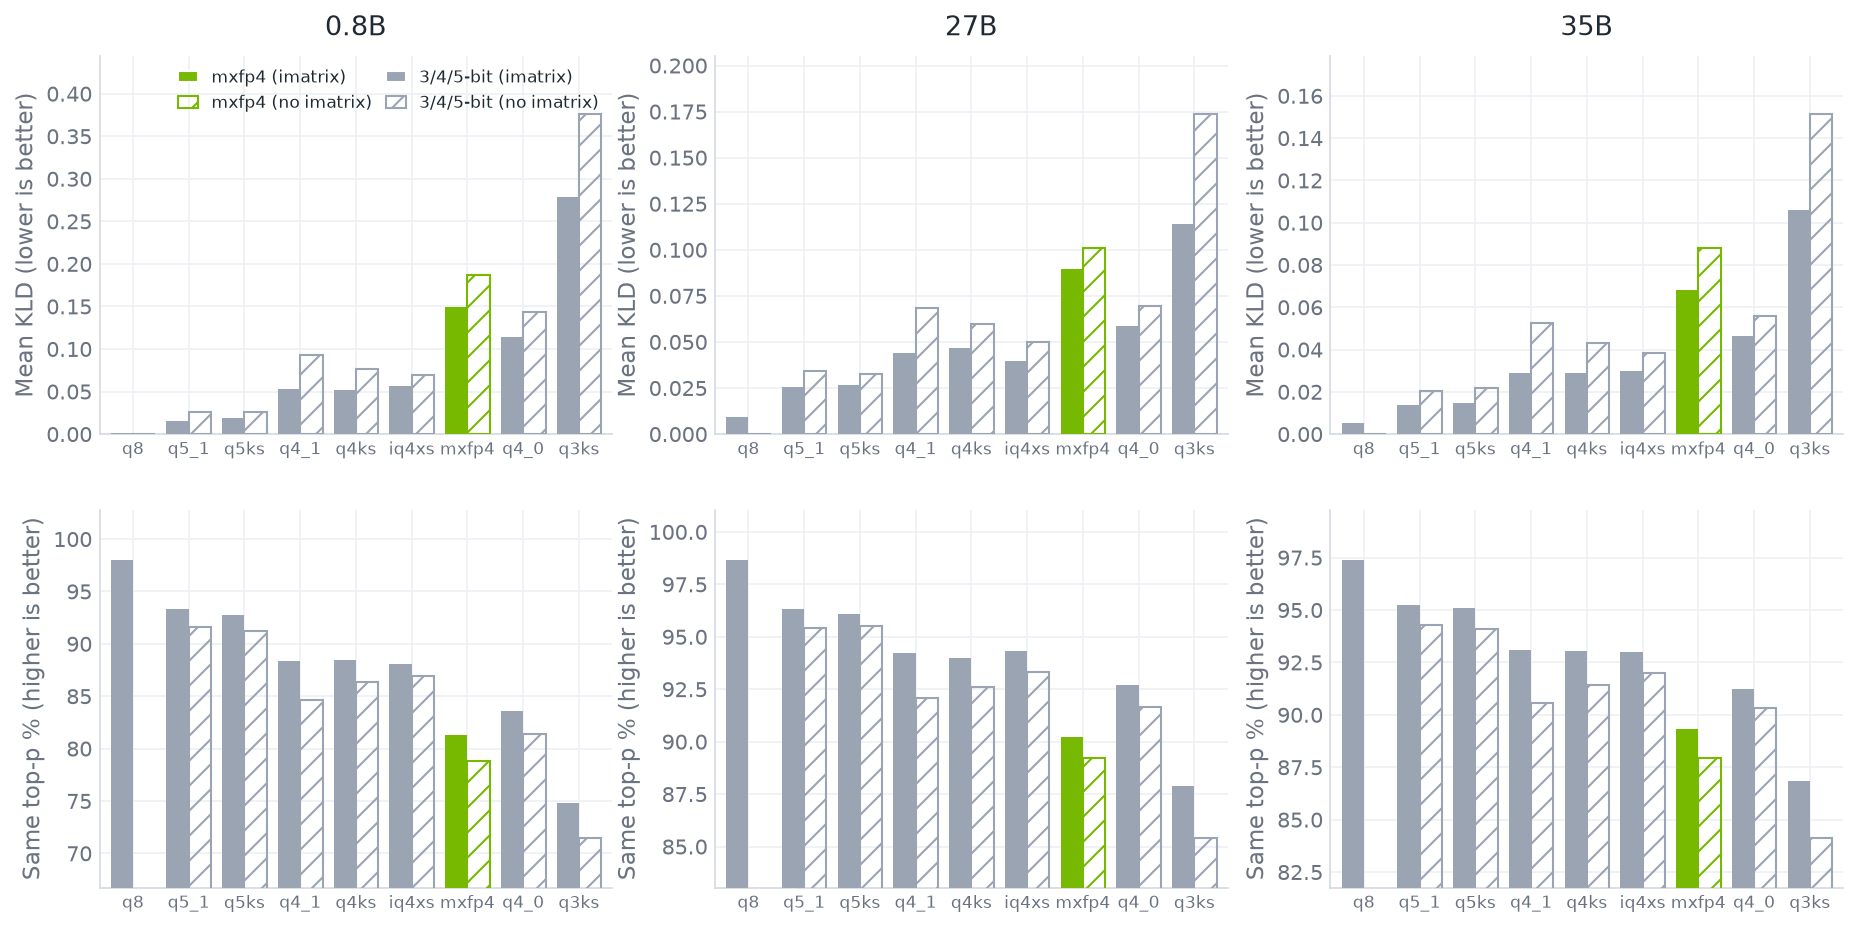
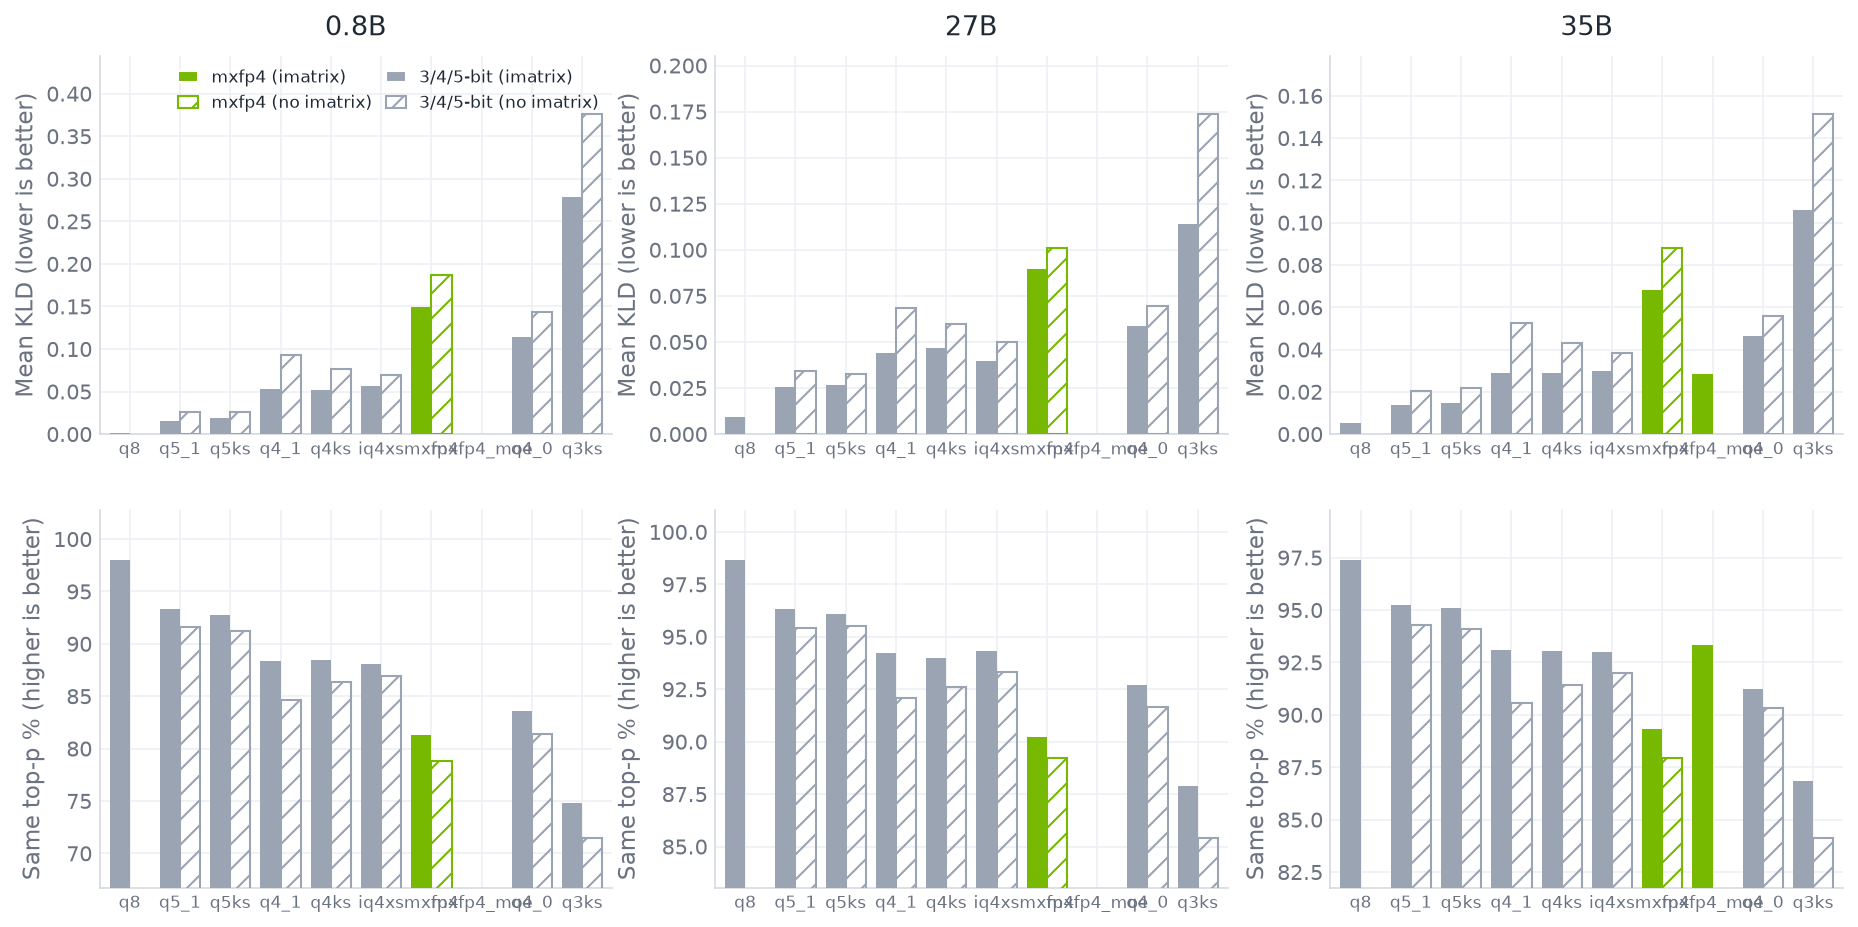
Charts + tables: regular-number log ticks, point labels right of dot, KL mxfp4_moe bar; PR body: 35B KL moe-recipe row, KV table filled (GPU + CPU)
Assisted-by: pi

diff --git a/charts.py b/charts.py
@@ -134,9 +134,9 @@ def scatter_quant_points(ax, rows):
         ax.scatter([size], [imx], s=s, c=col, marker=marker, zorder=5, edgecolors="white", linewidths=0.8)
         if noimx is not None:
             ax.scatter([size], [noimx], s=s, facecolors="none", edgecolors=col, linewidths=1.6, marker=marker, zorder=4)
-        ax.annotate(disp, (size, imx), textcoords="offset points", xytext=(7, 8),
+        ax.annotate(disp, (size, imx), textcoords="offset points", xytext=(7, 0),
                     fontsize=7, color=(PALETTE["mx"] if is_mx else PALETTE["muted"]),
-                    ha="left", va="bottom", zorder=6)
+                    ha="left", va="center", zorder=6)
     items = [Line2D([0], [0], marker="o", ls="", ms=9, mec="white", mfc=PALETTE["mx"], label="mxfp4")]
     if any(r[0] == "mxfp4-moe" for r in rows):
         items.append(Line2D([0], [0], marker="D", ls="", ms=9, mec="white", mfc=PALETTE["mx"], label="mxfp4_moe"))
@@ -152,8 +152,10 @@ def ppl_vs_size():
         style_axes(ax, title=model, xlabel="file size (GB)", ylabel="PPL", xlog=True)
         scatter_quant_points(ax, rows)
         ax.set_xlim(min(r[1] for r in rows) * 0.98, max(r[1] for r in rows) * 1.06)
-        from matplotlib.ticker import ScalarFormatter
-        ax.xaxis.set_major_formatter(ScalarFormatter())
+        from matplotlib.ticker import FuncFormatter, MaxNLocator
+        # log scale, but the range spans < 1 decade: place regular-number ticks with a linear-style locator
+        ax.xaxis.set_major_locator(MaxNLocator(nbins=4, steps=[1, 2, 2.5, 5, 10]))
+        ax.xaxis.set_major_formatter(FuncFormatter(lambda v, _: f"{v:.1f}" if v < 10 else f"{v:.0f}"))
         ymin, ymax = min(r[2] for r in rows), max(r[2] for r in rows)
         pad = (ymax - ymin) * 0.15
         ax.set_ylim(ymin - pad, ymax + pad)
@@ -189,13 +191,15 @@ def kv_cache():
         axt.bar_label(bt, fmt="%.1f", fontsize=7, color=PALETTE["text"], padding=2)
         axt.set_yscale("log")
         axt.set_ylim(min(d["tg"].values()) * 0.9, max(d["tg"].values()) * 1.08)
-        from matplotlib.ticker import ScalarFormatter
-        axt.yaxis.set_major_formatter(ScalarFormatter())
+        from matplotlib.ticker import FuncFormatter, MaxNLocator
+        # log scale, but the range spans < 1 decade: place regular-number ticks with a linear-style locator
+        axt.yaxis.set_major_locator(MaxNLocator(nbins=4, steps=[1, 2, 2.5, 5, 10]))
+        axt.yaxis.set_major_formatter(FuncFormatter(lambda v, _: f"{v:.0f}"))
     save(fig, "kv-cache.png")
 
 # ------------------------------------------------------------------ KL + top-p
 # per quant: (imx_kld, imx_topp, plain_kld, plain_topp); q8 has no plain
-KL_ORDER = ["q8", "q5_1", "q5ks", "q4_1", "q4ks", "iq4xs", "mxfp4", "q4_0", "q3ks"]
+KL_ORDER = ["q8", "q5_1", "q5ks", "q4_1", "q4ks", "iq4xs", "mxfp4", "mxfp4_moe", "q4_0", "q3ks"]
 KL = {
     "0.8B": {
         "q8":    (0.001274, 98.029, None, None),
@@ -205,6 +209,7 @@ KL = {
         "q4ks":  (0.052137, 88.432, 0.076593, 86.340),
         "iq4xs": (0.056000, 88.111, 0.069437, 86.883),
         "mxfp4": (0.149358, 81.307, 0.187225, 78.825),
+        "mxfp4_moe": (None, None, None, None),
         "q4_0":  (0.113817, 83.581, 0.143692, 81.412),
         "q3ks":  (0.278512, 74.846, 0.376418, 71.496),
     },
@@ -216,6 +221,7 @@ KL = {
         "q4ks":  (0.046680, 93.995, 0.059856, 92.591),
         "iq4xs": (0.039574, 94.317, 0.049913, 93.341),
         "mxfp4": (0.089838, 90.217, 0.101166, 89.239),
+        "mxfp4_moe": (None, None, None, None),
         "q4_0":  (0.058929, 92.702, 0.069682, 91.645),
         "q3ks":  (0.114200, 87.891, 0.173826, 85.424),
     },
@@ -227,30 +233,30 @@ KL = {
         "q4ks":  (0.029115, 93.066, 0.043272, 91.421),
         "iq4xs": (0.029952, 92.986, 0.038388, 91.981),
         "mxfp4": (0.068176, 89.343, 0.087843, 87.920),
+        "mxfp4_moe": (0.028607, 93.355, None, None),
         "q4_0":  (0.046439, 91.255, 0.055915, 90.307),
         "q3ks":  (0.106026, 86.843, 0.151525, 84.141),
     },
 }
 
 def _kl_color(q):
-    return PALETTE["mx"] if q == "mxfp4" else PALETTE["other"]
+    return PALETTE["mx"] if q in ("mxfp4", "mxfp4_moe") else PALETTE["other"]
 
 
 def _plot_kl_panel(ax, d, key, ymin0=False):
     xs = np.arange(len(KL_ORDER))
     w = 0.4
-    imx_x, noimx_x = xs - w/2, xs + w/2
-    imx_vals, noimx_vals, cols = [], [], []
-    for q in KL_ORDER:
+    imx_x, imx_vals, cols = [], [], []
+    noimx_x, noimx_vals, nocols = [], [], []
+    for i, q in enumerate(KL_ORDER):
         ik, it, pk, pt = d[q]
-        imx_vals.append(ik if key == "kld" else it)
-        noimx_vals.append((pk if key == "kld" else pt) if pk is not None else None)
-        cols.append(_kl_color(q))
+        if ik is not None or it is not None:
+            imx_x.append(i - w/2); imx_vals.append(ik if key == "kld" else it); cols.append(_kl_color(q))
+        if pk is not None or pt is not None:
+            noimx_x.append(i + w/2); noimx_vals.append(pk if key == "kld" else pt); nocols.append(_kl_color(q))
     ax.bar(imx_x, imx_vals, width=w, color=cols, zorder=3)
-    has_noimx = [v is not None for v in noimx_vals]
-    if any(has_noimx):
-        ax.bar(noimx_x, [v if v is not None else 0 for v in noimx_vals], width=w,
-               color="none", hatch="//", edgecolor=cols, linewidth=1.0, zorder=3)
+    if noimx_vals:
+        ax.bar(noimx_x, noimx_vals, width=w, color="none", hatch="//", edgecolor=nocols, linewidth=1.0, zorder=3)
     ax.set_xticks(xs); ax.set_xticklabels(KL_ORDER, fontsize=8)
     ax.set_xlim(-0.6, len(KL_ORDER) - 0.4)
     ys = imx_vals + [v for v in noimx_vals if v is not None]

diff --git a/PR-body.md b/PR-body.md
@@ -39,7 +39,7 @@ The 4-bit family clusters tightly in PPL; mxfp4 sits in the pack on the dense mo
 
 ![KL divergence + same top-p](https://raw.githubusercontent.com/timothyeburke/mxfp4-pr-assets/master/kl-top-p.png)
 
-KLD and same top-p are both monotonic in bit-width, and the imatrix (filled) beats no-imatrix (hollow) for every quant - it consistently reduces divergence and improves top-p agreement with the bf16 base.
+KLD and same top-p are both monotonic in bit-width, and the imatrix (filled) beats no-imatrix (hollow) for every quant - it consistently reduces divergence and improves top-p agreement with the bf16 base. On the 35B, the MoE recipe (experts mxfp4, dense Q8_0) splits the difference: the mxfp4 experts cost +0.023 KLD over the Q8_0 ref, and downgrading the dense parts to mxfp4 adds another +0.040 on top.
 
 <details>
 <summary>Detail tables (PPL + size, full imatrix; pp/tg pending re-measure)</summary>
@@ -131,6 +131,7 @@ pp4096 / tg128 pending re-measurement on the fresh files.
 | q4ks | 0.0291 | 93.07 | 0.0433 | 91.42 |
 | iq4xs | 0.0300 | 92.99 | 0.0384 | 91.98 |
 | **mxfp4** | **0.0682** | **89.34** | 0.0878 | 87.92 |
+| **mxfp4 (MoE recipe)** | **0.0286** | **93.36** | - | - |
 | q4_0 | 0.0464 | 91.26 | 0.0559 | 90.31 |
 | q3ks | 0.1060 | 86.84 | 0.1515 | 84.14 |
 </details>
@@ -142,29 +143,29 @@ pp4096 / tg128 pending re-measurement on the fresh files.
 **KV cache type is a memory choice, not a speed one:** quantized KV (mxfp4) uses ~3-4x less memory than f16 at long context, while decode throughput is flat across all KV types.
 
 <details>
-<summary>Detail tables (KV cache; pp/tg pending re-measure)</summary>
+<summary>Detail tables (KV cache, GPU + CPU)</summary>
 
-KV cache memory (GiB) at 100k tokens, and GPU throughput (pp4096/tg128, --flash-attn 1), by KV type:
+KV cache memory (GiB) at 100k tokens, and throughput by KV type: GPU (2x RTX 5060 Ti @150W, Q4_1 weights, pp4096/tg128, --flash-attn 1) and CPU (pp512/tg32, 24 threads, --n-gpu-layers 0), -r 5:
 
-| model | KV | memory @100k | GPU pp4096 | GPU tg128 |
-|---|---|---:|---:|---:|
-| Qwen3.5-0.8B | f16 | 1.14 GiB | - | - |
-|  | q4_0 | 0.32 GiB | - | - |
-|  | q4_1 | 0.36 GiB | - | - |
-|  | q5_1 | 0.43 GiB | - | - |
-|  | **mxfp4** | **0.30 GiB** | - | - |
-| Qwen3.8-27B | f16 | 6.10 GiB | - | - |
-|  | q4_0 | 1.72 GiB | - | - |
-|  | q4_1 | 1.91 GiB | - | - |
-|  | q5_1 | 2.29 GiB | - | - |
-|  | **mxfp4** | **1.62 GiB** | - | - |
-| Qwen3.6-35B-A3B | f16 | 1.91 GiB | - | - |
-|  | q4_0 | 0.54 GiB | - | - |
-|  | q4_1 | 0.60 GiB | - | - |
-|  | q5_1 | 0.72 GiB | - | - |
-|  | **mxfp4** | **0.51 GiB** | - | - |
+| model | KV | memory @100k | GPU pp4096 | GPU tg128 | 285K pp512 | 285K tg32 | 9900X pp512 | 9900X tg32 |
+|---|---|---:|---:|---:|---:|---:|---:|---:|
+| Qwen3.5-0.8B | f16 | 1.14 GiB | 19006.9 | 434.4 | 985.5 | 43.3 | 846.0 | 53.9 |
+|  | q4_0 | 0.32 GiB | 18738.0 | 411.2 | 949.8 | 38.3 | 825.6 | 52.9 |
+|  | q4_1 | 0.36 GiB | 18734.4 | 413.6 | 928.9 | 38.4 | 860.9 | 51.2 |
+|  | q5_1 | 0.43 GiB | 18772.1 | 414.7 | 869.6 | 42.7 | 265.8 | 50.1 |
+|  | **mxfp4** | **0.30 GiB** | 18737.8 | 412.9 | 850.1 | 39.4 | 371.3 | 51.3 |
+| Qwen3.8-27B | f16 | 6.10 GiB | 1461.1 | 42.6 | 45.7 | 3.0 | 49.9 | 2.2 |
+|  | q4_0 | 1.72 GiB | 1449.4 | 42.1 | 45.1 | 3.1 | 49.3 | 2.2 |
+|  | q4_1 | 1.91 GiB | 1445.7 | 42.1 | 45.2 | 3.4 | 51.1 | 2.4 |
+|  | q5_1 | 2.29 GiB | 1446.9 | 42.1 | 44.7 | 3.4 | 43.8 | 2.4 |
+|  | **mxfp4** | **1.62 GiB** | 1447.2 | 42.2 | 44.5 | 3.4 | 45.7 | 2.3 |
+| Qwen3.6-35B-A3B | f16 | 1.91 GiB | 3524.5 | 183.9 | 191.3 | 14.2 | 173.3 | 14.4 |
+|  | q4_0 | 0.54 GiB | 3496.9 | 178.7 | 187.2 | 14.3 | 158.5 | 14.3 |
+|  | q4_1 | 0.60 GiB | 3509.4 | 179.3 | 186.7 | 14.0 | 143.2 | 14.3 |
+|  | q5_1 | 0.72 GiB | 3508.9 | 179.1 | 180.6 | 14.3 | 129.6 | 14.0 |
+|  | **mxfp4** | **0.51 GiB** | 3494.9 | 179.1 | 174.8 | 14.4 | 130.7 | 14.5 |
 
-These are hybrid linear/full-attention models - full attention every 4 blocks, so only a fraction of layers grow the KV cache (0.8B: 6 of 24 layers; 27B: 16 of 64; 35B: 10 of 40; KV head dim 256); the sizes above reflect that. GPU pp4096 / tg128 pending re-measurement on the fresh files.
+These are hybrid linear/full-attention models - full attention every 4 blocks, so only a fraction of layers grow the KV cache (0.8B: 6 of 24 layers; 27B: 16 of 64; 35B: 10 of 40; KV head dim 256); the sizes above reflect that. The KV-type cost is consistent across weight quants (both the Q4_1 and mxfp4 weight files show a similar few-% slowdown vs f16); the 9900X is notably more sensitive to the Q5_1 KV, while mxfp4 stays close to f16 on both CPUs.
 
 </details>
 
